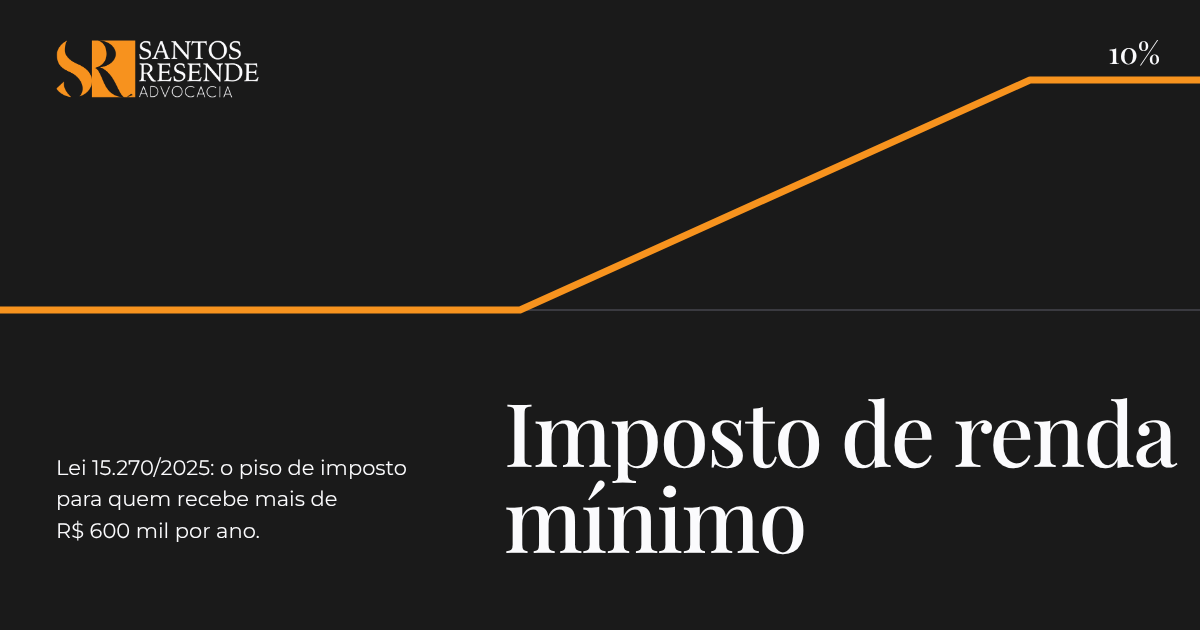
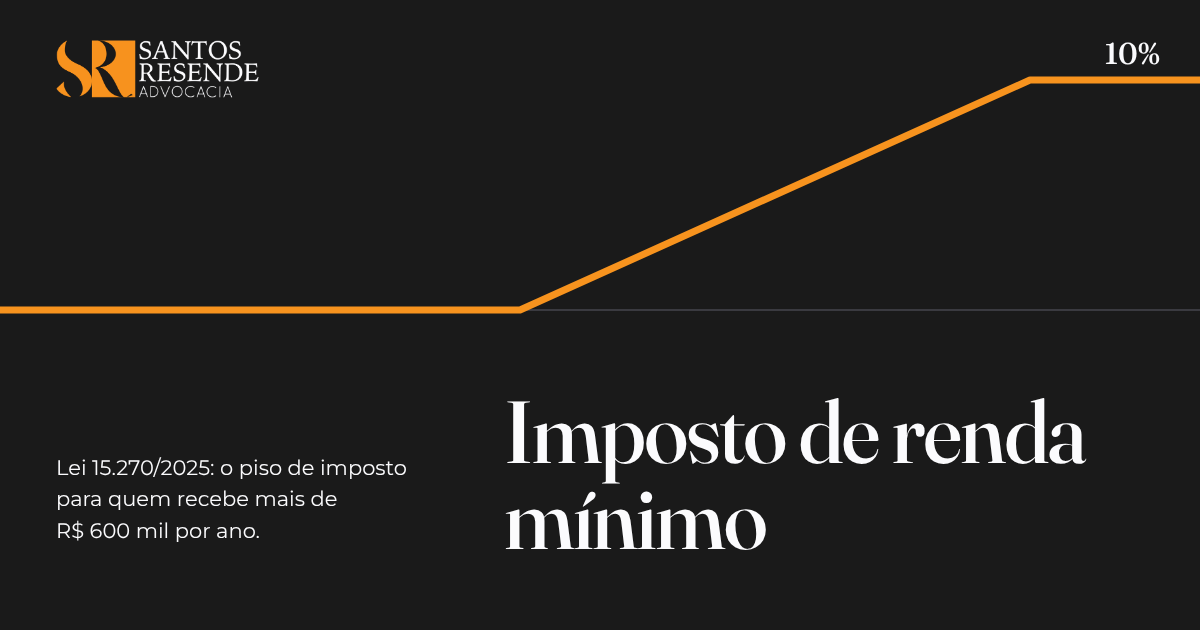
Fraunces nos títulos e fundo branco com painéis em cinza neutro
- Títulos em Fraunces, serifa contemporânea que mantém a conversa com a logo
- Fundo da página em branco; painéis, perguntas, datas e calculadora em
  cinza neutro um tom abaixo, para separar melhor os blocos
- Campos da calculadora e dica dos gráficos em branco sobre os painéis
- No gráfico da alíquota, a área entra junto com a linha
- Imagem de compartilhamento refeita com a nova fonte

Claude-Session: https://claude.ai/code/session_01QTMmjzjnVDxHHuoXND5c2y

Changed region(s): [[0.4008, 0.6333, 0.9867, 0.9048], [0.925, 0.0603, 0.9867, 0.1206]]

diff --git a/css/estilo.css b/css/estilo.css
@@ -4,12 +4,12 @@
 
 :root {
   /* cor */
-  --bg: #ECEBF5;          /* fundo da página */
-  --surface: #FBFBFD;     /* painéis e fragmentos */
-  --alt: #E2E0EE;         /* um tom abaixo do fundo: área de controles */
+  --bg: #FFFFFF;          /* fundo da página: branco limpo */
+  --surface: #F3F3F6;     /* painéis e fragmentos: um tom neutro abaixo do fundo */
+  --alt: #E8E8EE;         /* dois tons abaixo: área de controles, faixas alternadas */
   --ink: #1A1A1A;         /* tinta */
   --muted: #4A4A55;       /* tinta suave */
-  --linha: #D3D1E2;       /* só dentro de tabelas, formulários e fragmentos */
+  --linha: #D8D8E0;       /* só dentro de tabelas, formulários e fragmentos */
   --dark: #1A1A1A;        /* campo escuro da abertura e do contato */
   --on-dark: #FBFBFD;
   --on-dark-soft: #CFCDD9;
@@ -22,7 +22,7 @@
 
   /* tipo: cinco tamanhos */
   --fonte: 'Montserrat', Arial, Helvetica, sans-serif;
-  --serifa: 'Playfair Display', Georgia, 'Times New Roman', serif;  /* ecoa a serifa de SANTOS RESENDE na logo */
+  --serifa: 'Fraunces', Georgia, 'Times New Roman', serif;  /* serifa contemporânea; conversa com a serifa da logo */
   --t-exibicao: clamp(34px, 6.2vw, 96px);
   --t-titulo: clamp(26px, 2.5vw, 36px);
   --t-destaque: 20px;
@@ -88,7 +88,7 @@ a { color: inherit; }
 }
 
 /* cabeçalho: uma barra simples */
-.topo { background: var(--surface); }
+.topo { background: var(--bg); }
 .topo__linha { display: flex; align-items: center; justify-content: space-between; gap: 24px; padding-block: 14px; }
 .topo__marca img { height: 44px; width: auto; }
 .topo__nav { display: flex; align-items: center; gap: 28px; font-size: 16px; font-weight: 700; }
@@ -261,7 +261,7 @@ a { color: inherit; }
 .entrada { position: relative; }
 .entrada span { position: absolute; left: 14px; top: 50%; transform: translateY(-50%); font-size: 16px; font-weight: 700; color: var(--muted); pointer-events: none; }
 .entrada.pct span { left: auto; right: 14px; }
-.entrada input { width: 100%; min-width: 0; min-height: 48px; padding: 10px 14px 10px 44px; border: 2px solid var(--linha); border-radius: 6px; background: var(--surface); color: var(--ink); font: 700 var(--t-destaque)/1 var(--fonte); font-variant-numeric: tabular-nums; transition: border-color var(--t-hover) ease; }
+.entrada input { width: 100%; min-width: 0; min-height: 48px; padding: 10px 14px 10px 44px; border: 2px solid var(--linha); border-radius: 6px; background: #FFFFFF; color: var(--ink); font: 700 var(--t-destaque)/1 var(--fonte); font-variant-numeric: tabular-nums; transition: border-color var(--t-hover) ease; }
 .entrada.pct input { padding-left: 14px; padding-right: 36px; }
 .entrada input:focus { border-color: var(--accent); outline: none; }
 .entrada input:focus-visible { outline: 3px solid var(--accent); outline-offset: 2px; }
@@ -494,7 +494,7 @@ a { color: inherit; }
 /* datas: agenda em faixas de tom alternado */
 .guia .datas { margin-top: 32px; display: flex; flex-direction: column; gap: 4px; }
 .guia .datas li { background: var(--surface); padding: 20px 24px; margin: 0; }
-.guia .datas li:nth-child(even) { background: #F4F3F9; }
+.guia .datas li:nth-child(even) { background: var(--alt); }
 .guia .datas li.datas__agora { background: var(--accent-pale); margin: 0; padding-inline: 24px; }
 .datas__quando { font-size: 21px; font-weight: 500; }
 
@@ -537,6 +537,8 @@ a { color: inherit; }
   .js [data-revela] .rampa__reta--desenho { stroke-dasharray: 1; stroke-dashoffset: 1; }
   .js [data-revela].dentro .rampa__reta--desenho { stroke-dashoffset: 0; transition: stroke-dashoffset 1400ms var(--ease-in-out) 300ms; }
   .js [data-revela] .rampa--rotulada .rampa__marco { opacity: 0; }
+  .js [data-revela] .rampa--rotulada .rampa__area { opacity: 0; }
+  .js [data-revela].dentro .rampa--rotulada .rampa__area { opacity: 1; transition: opacity 900ms var(--ease-out) 700ms; }
   .js [data-revela].dentro .rampa--rotulada .rampa__marco { opacity: 1; transition: opacity 400ms var(--ease-out); transition-delay: calc(900ms + var(--i) * 140ms); }
 }
 
@@ -550,7 +552,7 @@ a { color: inherit; }
 .rampa--rotulada .rampa__marco:hover .rampa__bolinha, .rampa--rotulada .rampa__marco.ativo .rampa__bolinha { transform: scale(1.45); }
 .rampa--rotulada .rampa__marco:focus-visible .rampa__bolinha { stroke: var(--ink); stroke-width: 3; transform: scale(1.45); }
 .voce circle { fill: var(--accent); stroke: var(--surface); stroke-width: 3; }
-.dica { position: absolute; left: 0; top: 0; z-index: 3; min-width: 190px; padding: 10px 12px; display: grid; gap: 6px; background: var(--surface); color: var(--ink); font-size: 14px; line-height: 1.3; border: 1px solid var(--linha); border-radius: 8px; box-shadow: 0 10px 28px rgba(26, 26, 26, 0.16); pointer-events: none; opacity: 0; transition: opacity 160ms ease; }  /* taste-skill-ignore: a dica flutua sobre o gráfico */
+.dica { position: absolute; left: 0; top: 0; z-index: 3; min-width: 190px; padding: 10px 12px; display: grid; gap: 6px; background: #FFFFFF; color: var(--ink); font-size: 14px; line-height: 1.3; border: 1px solid var(--linha); border-radius: 8px; box-shadow: 0 10px 28px rgba(26, 26, 26, 0.16); pointer-events: none; opacity: 0; transition: opacity 160ms ease; }  /* taste-skill-ignore: a dica flutua sobre o gráfico */
 .dica.visivel { opacity: 1; }
 .dica b { font-weight: 700; }
 .dica span { display: flex; align-items: center; gap: 8px; color: var(--muted); }
@@ -567,7 +569,7 @@ a { color: inherit; }
 .faq__aba span { position: relative; }
 .faq__aba[aria-selected="true"] { color: var(--on-dark); }
 .faq__aba[aria-selected="true"]::before { transform: none; }
-@media (hover: hover) and (pointer: fine) { .faq__aba[aria-selected="false"]:hover { background: #F4F3F9; } }
+@media (hover: hover) and (pointer: fine) { .faq__aba[aria-selected="false"]:hover { background: var(--alt); } }
 .faq__paineis { margin-top: 24px; }
 .faq__painel { display: flex; flex-direction: column; gap: 6px; }
 .faq__painel[hidden] { display: none; }
@@ -576,7 +578,7 @@ a { color: inherit; }
 .faq__categoria { margin: 0 0 10px; font-family: var(--serifa); font-size: 24px; font-weight: 500; }
 .com-abas .faq__categoria { position: absolute; width: 1px; height: 1px; overflow: hidden; clip-path: inset(50%); white-space: nowrap; }
 .faq__item { background: var(--surface); transition: background-color var(--t-ui) ease; }
-.faq__item[open] { background: #FFFFFF; }
+.faq__item[open] { background: var(--surface); }
 .faq__item summary { display: flex; align-items: center; justify-content: space-between; gap: 20px; padding: 20px 24px; cursor: pointer; list-style: none; }
 .faq__item summary::-webkit-details-marker { display: none; }
 .faq__item summary:focus-visible { outline: 3px solid var(--accent); outline-offset: -3px; }

diff --git a/index.html b/index.html
@@ -7,7 +7,7 @@
 <meta name="description" content="Entenda o imposto de renda mínimo da Lei 15.270/2025 e calcule quanto você pode ter de complementar na declaração de 2027.">
 <meta name="robots" content="index, follow">
 <meta name="author" content="Santos Resende Advocacia">
-<meta name="theme-color" content="#FBFBFD">
+<meta name="theme-color" content="#FFFFFF">
 <meta name="color-scheme" content="light">
 <link rel="canonical" href="https://sr-irpfm.vercel.app/">
 
@@ -75,7 +75,7 @@
 <script src="js/inicio.js"></script>
 <link rel="preconnect" href="https://fonts.googleapis.com">
 <link rel="preconnect" href="https://fonts.gstatic.com" crossorigin>
-<link rel="stylesheet" href="https://fonts.googleapis.com/css2?family=Montserrat:wght@400;500;700&family=Playfair+Display:wght@500;600&display=swap">
+<link rel="stylesheet" href="https://fonts.googleapis.com/css2?family=Montserrat:wght@400;500;700&family=Fraunces:opsz,wght@9..144,400..600&display=swap">
 <link rel="stylesheet" href="css/estilo.css">
 </head>
 <body>
